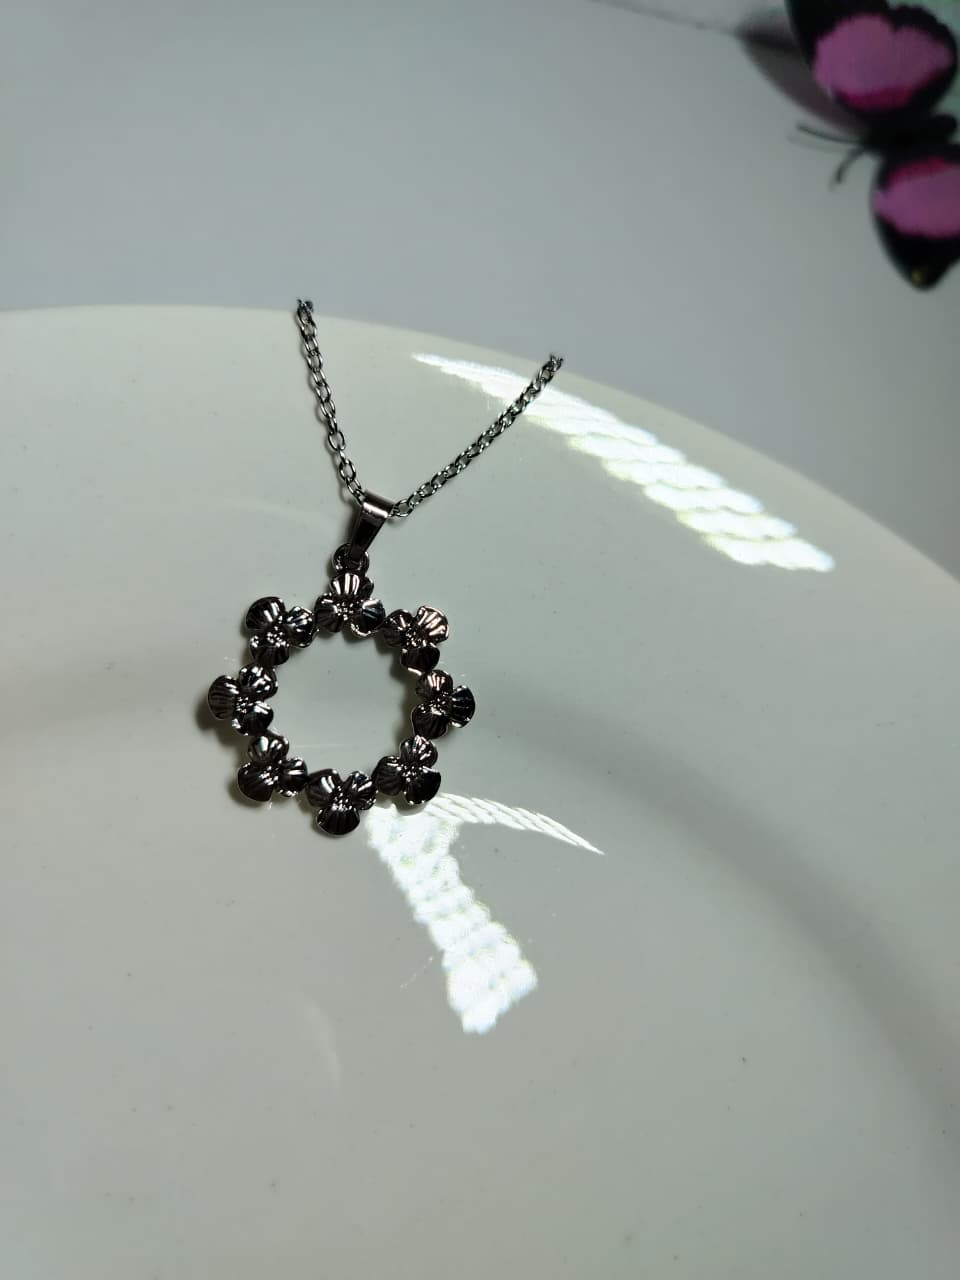
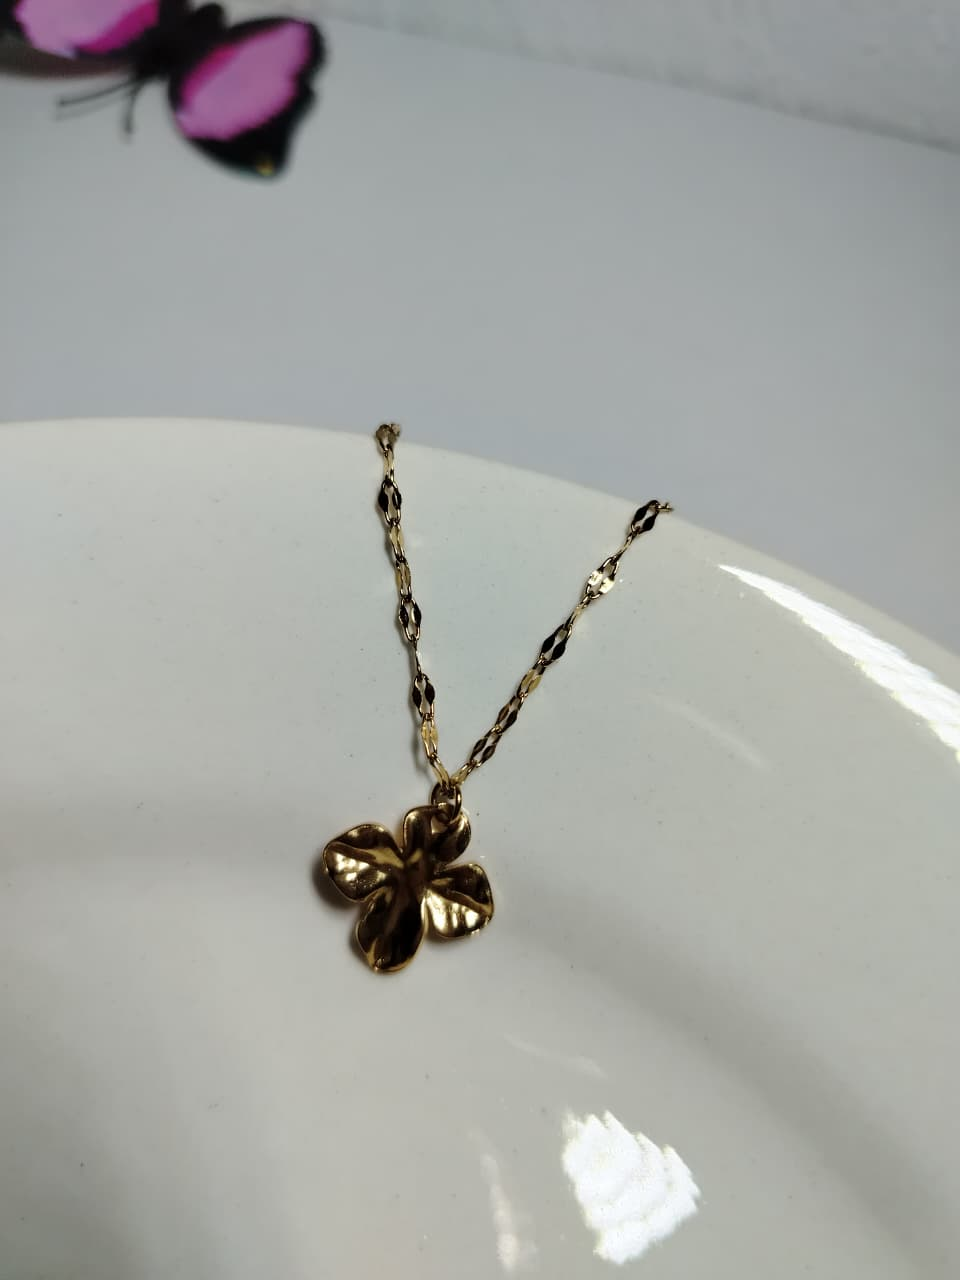
images and ig

diff --git a/src/data/products.js b/src/data/products.js
@@ -116,7 +116,7 @@ const products = [
     category: "Pulseras",
     price: 150,
     stock: 1,
-    image: "/images/products/anillocaracol.jpg",
+    image: "/images/products/van.jpg",
     description:
       "Pulsera de acero inoxidable en color dorado y blanco.",
   },
@@ -127,7 +127,7 @@ const products = [
     category: "Pulseras",
     price: 95,
     stock: 1,
-    image: "/images/products/anillocaracol.jpg",
+    image: "/images/products/pulseradelfin.jpg",
     description:
       "Pulsera tipo Pandora con dijes, de acero inoxidable en color plateado.",
   },
@@ -138,7 +138,7 @@ const products = [
     category: "Pulseras",
     price: 95,
     stock: 1,
-    image: "/images/products/anillocaracol.jpg",
+    image: "/images/products/pestrellas.jpg",
     description:
       "Pulsera tipo Pandora con dijes de estrellas de mar y corazón, de acero inoxidable en color plateado.",
   },
@@ -149,7 +149,7 @@ const products = [
     category: "Pulseras",
     price: 100,
     stock: 1,
-    image: "/images/products/anillocaracol.jpg",
+    image: "/images/products/bcorazon.jpg",
     description:
       "Brazalete de corazones, ajustable, de acero inoxidable en color dorado.",
   },
@@ -160,7 +160,7 @@ const products = [
     category: "Pulseras",
     price: 120,
     stock: 1,
-    image: "/images/products/anillocaracol.jpg",
+    image: "/images/products/bflores.jpg",
     description:
       "Brazalete de flores, ajustable, de acero inoxidable en color dorado.",
   },
@@ -171,7 +171,7 @@ const products = [
     category: "Aretes",
     price: 75,
     stock: 1,
-    image: "/images/products/anillocaracol.jpg",
+    image: "/images/products/areteredondo.jpg",
     description:
       "Aretes redondos, de tachuela, de acero inoxidable en color dorado con negro.",
   },
@@ -182,7 +182,7 @@ const products = [
     category: "Aretes",
     price: 75,
     stock: 1,
-    image: "/images/products/anillocaracol.jpg",
+    image: "/images/products/aretemono.jpg",
     description:
       "Aretes de moño, de tachuela, de acero inoxidable en color dorado.",
   },
@@ -193,7 +193,7 @@ const products = [
     category: "Aretes",
     price: 75,
     stock: 1,
-    image: "/images/products/anillocaracol.jpg",
+    image: "/images/products/aretegota.jpg",
     description:
       "Aretes de tachuela, de acero inoxidable en color plateado.",
   },
@@ -204,7 +204,7 @@ const products = [
     category: "Aretes",
     price: 75,
     stock: 1,
-    image: "/images/products/anillocaracol.jpg",
+    image: "/images/products/areteflor.jpg",
     description:
       "Aretes redondos, de tachuela, de acero inoxidable en color dorado con blanco.",
   },
@@ -215,7 +215,7 @@ const products = [
     category: "Aretes",
     price: 75,
     stock: 1,
-    image: "/images/products/anillocaracol.jpg",
+    image: "/images/products/aretehoja.jpg",
     description:
       "Aretes en forma de hoja, de tachuela, de acero inoxidable en color plateado.",
   },
@@ -226,7 +226,7 @@ const products = [
     category: "Aretes",
     price: 75,
     stock: 1,
-    image: "/images/products/anillocaracol.jpg",
+    image: "/images/products/areteplata.jpg",
     description:
       "Aretes de tachuela, de acero inoxidable en color plateado.",
   },

diff --git a/src/components/ProductCard.jsx b/src/components/ProductCard.jsx
@@ -1,4 +1,4 @@
-import { WHATSAPP_NUMBER } from "../config/contact";
+import { INSTAGRAM_CHAT_URL } from "../config/contact";
 
 function ProductCard({ product }) {
   const getStockStatus = () => {
@@ -24,7 +24,7 @@ function ProductCard({ product }) {
 
   const stockStatus = getStockStatus();
 
-  const whatsappMessage = `
+  const instagramMessage = `
 Hola 💜
 
 Me gustaría pedir información sobre este producto de Amethieel:
@@ -36,37 +36,44 @@ Precio: $${product.price.toFixed(2)}
 ¿Sigue disponible?
   `.trim();
 
-  const whatsappUrl = `https://wa.me/${WHATSAPP_NUMBER}?text=${encodeURIComponent(
-    whatsappMessage
-  )}`;
+  const handleInstagramClick = async () => {
+    try {
+      // Copia automáticamente la información del producto
+      await navigator.clipboard.writeText(instagramMessage);
+    } catch (error) {
+      console.error("No se pudo copiar el mensaje:", error);
+    }
+
+    // Abre el chat de Instagram
+    window.open(
+      INSTAGRAM_CHAT_URL,
+      "_blank",
+      "noopener,noreferrer"
+    );
+  };
 
   return (
     <article className="product-card">
-
       <div className="product-image-container">
-
-        <a
-          href={whatsappUrl}
-          target="_blank"
-          rel="noopener noreferrer"
+        <button
+          type="button"
+          onClick={handleInstagramClick}
           className="product-image-link"
-          title={`Consultar ${product.name} por WhatsApp`}
+          title={`Consultar ${product.name} por Instagram`}
         >
           <img
             src={product.image}
             alt={product.name}
             className="product-image"
           />
-        </a>
+        </button>
 
         <span className={stockStatus.className}>
           {stockStatus.text}
         </span>
-
       </div>
 
       <div className="product-info">
-
         <div className="product-top-info">
           <p className="product-category">
             {product.category}
@@ -95,17 +102,14 @@ Precio: $${product.price.toFixed(2)}
           )}
         </div>
 
-        <a
-          href={whatsappUrl}
-          target="_blank"
-          rel="noopener noreferrer"
+        <button
+          type="button"
+          onClick={handleInstagramClick}
           className="whatsapp-button"
         >
           Pedir información
-        </a>
-
+        </button>
       </div>
-
     </article>
   );
 }

diff --git a/src/config/contact.js b/src/config/contact.js
@@ -1,1 +1,2 @@
-export const WHATSAPP_NUMBER = "523316810923";
+export const INSTAGRAM_USERNAME = "amethieel";
+export const INSTAGRAM_CHAT_URL = `https://www.instagram.com/amethieel/`;
